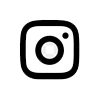
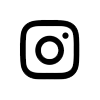
Added social links

Changed region(s): [[0.39, 0.39, 0.6, 0.6]]

diff --git a/index.html b/index.html
@@ -64,7 +64,7 @@
 
     <footer>
       <a href="http://twitter.com/_chartim"><img src="img/twitter-wrap.png" alt="twitter-logo"></a>
-      <img src="img/instagram-wrap.png" alt="facebook-logo">
+      <img src="img/instagram-wrap.png" alt="instagram-logo">
       <p>&copy; 2019 Tim Rach.</p>
     </footer>
 
